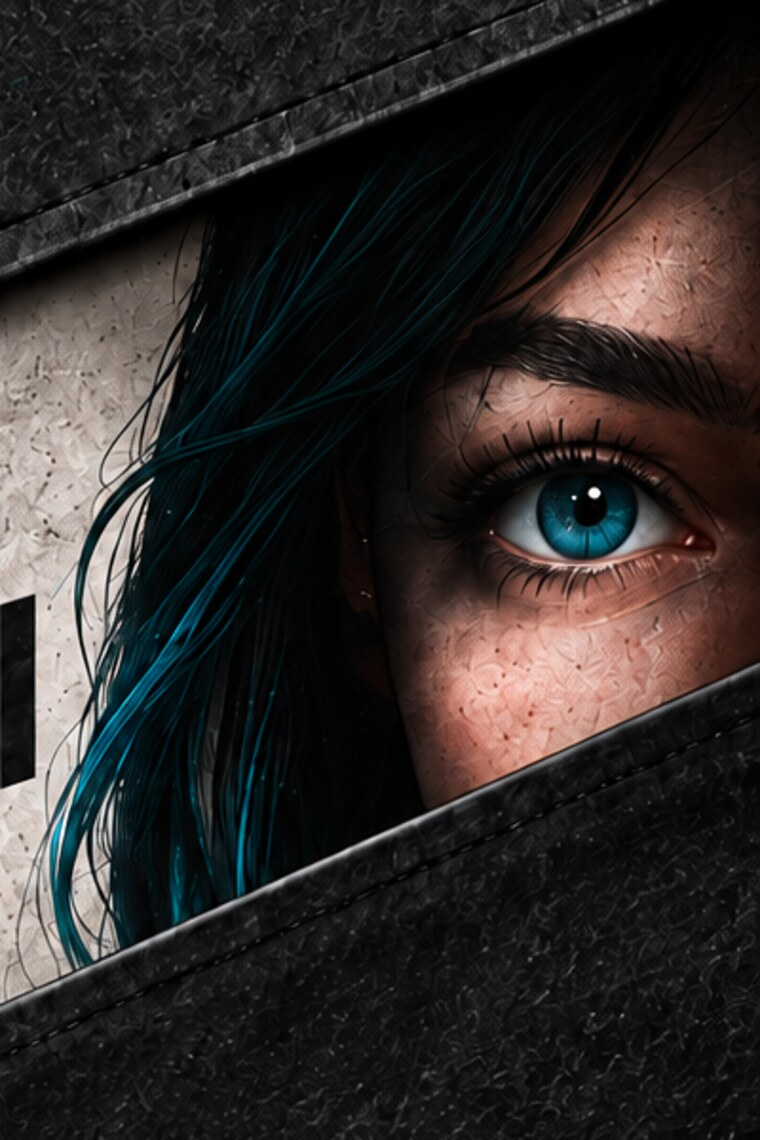
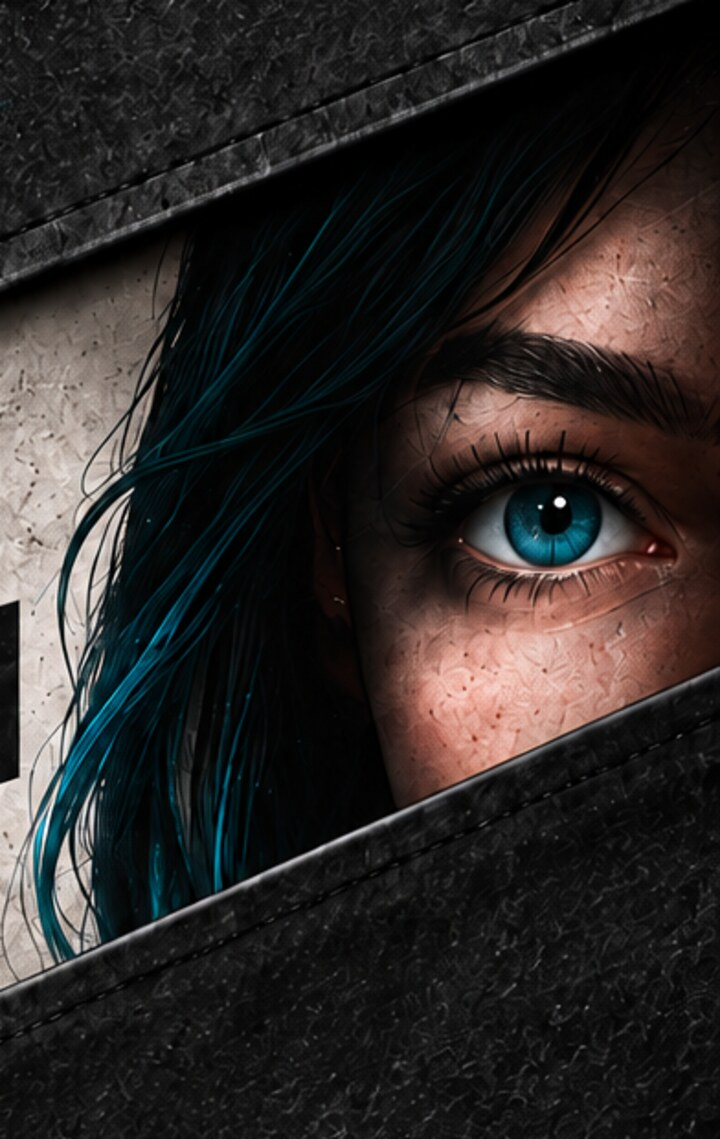
Уменьшил глаз, добавил часть лица

diff --git a/src/index.css b/src/index.css
@@ -4765,14 +4765,12 @@ html.theme-light .hero-strip {
 .neira img {
   position: absolute;
   top: 50%;
-  right: -2%;
+  right: -4%;
   transform: translateY(-50%);
-  height: 124%;
-  width: auto;
-  min-width: 108%;
-  object-fit: cover;
-  object-position: 50% 26%;
-  opacity: 0.62;
+  height: auto;
+  width: 100%;
+  object-fit: contain;
+  opacity: 0.66;
   filter: contrast(1.06) saturate(1.05);
   -webkit-mask-image:
     linear-gradient(90deg, transparent 0%, rgba(0, 0, 0, 0.35) 22%, #000 58%),
